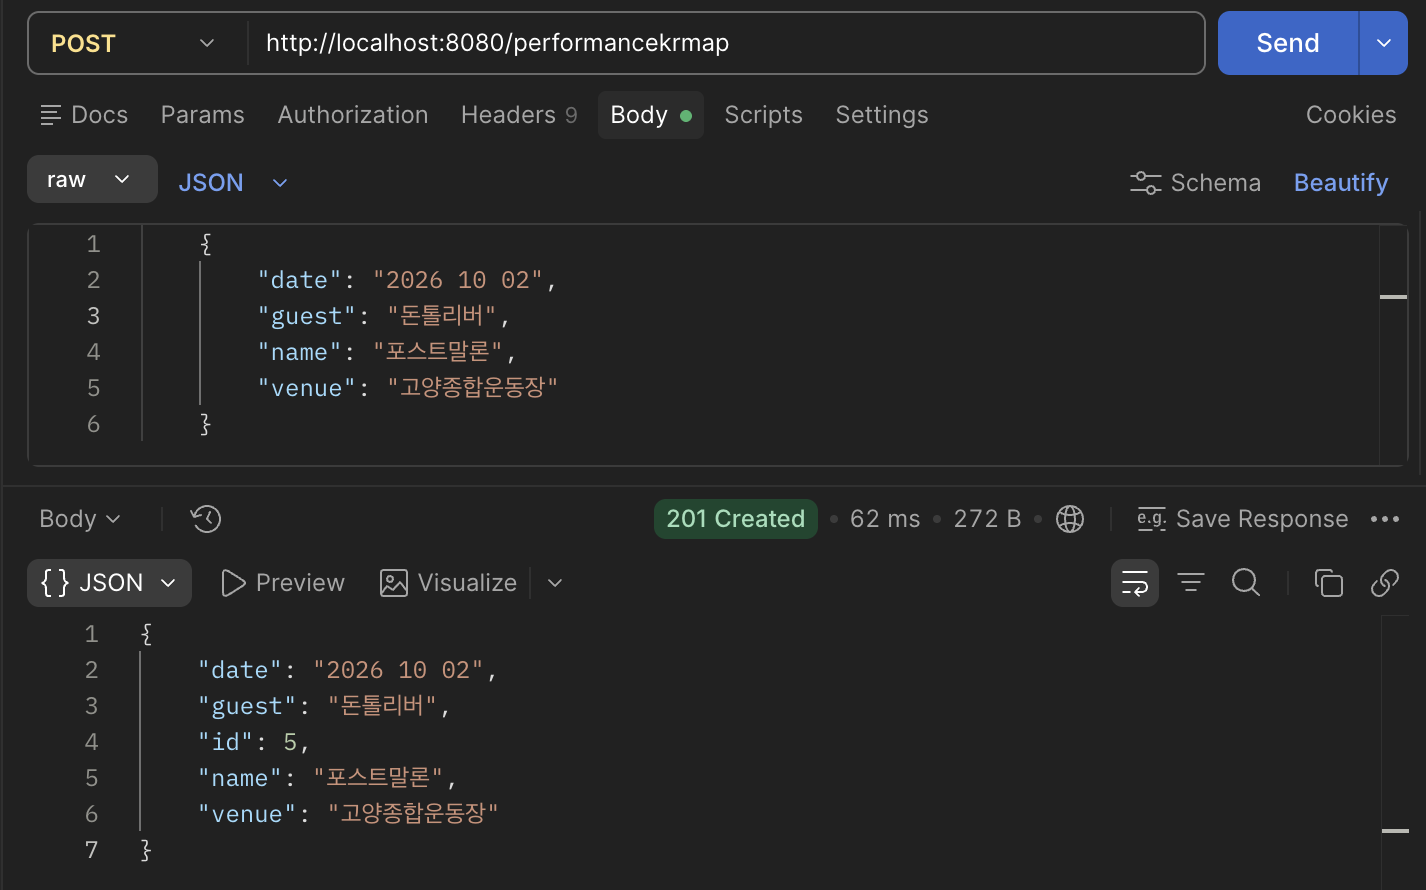
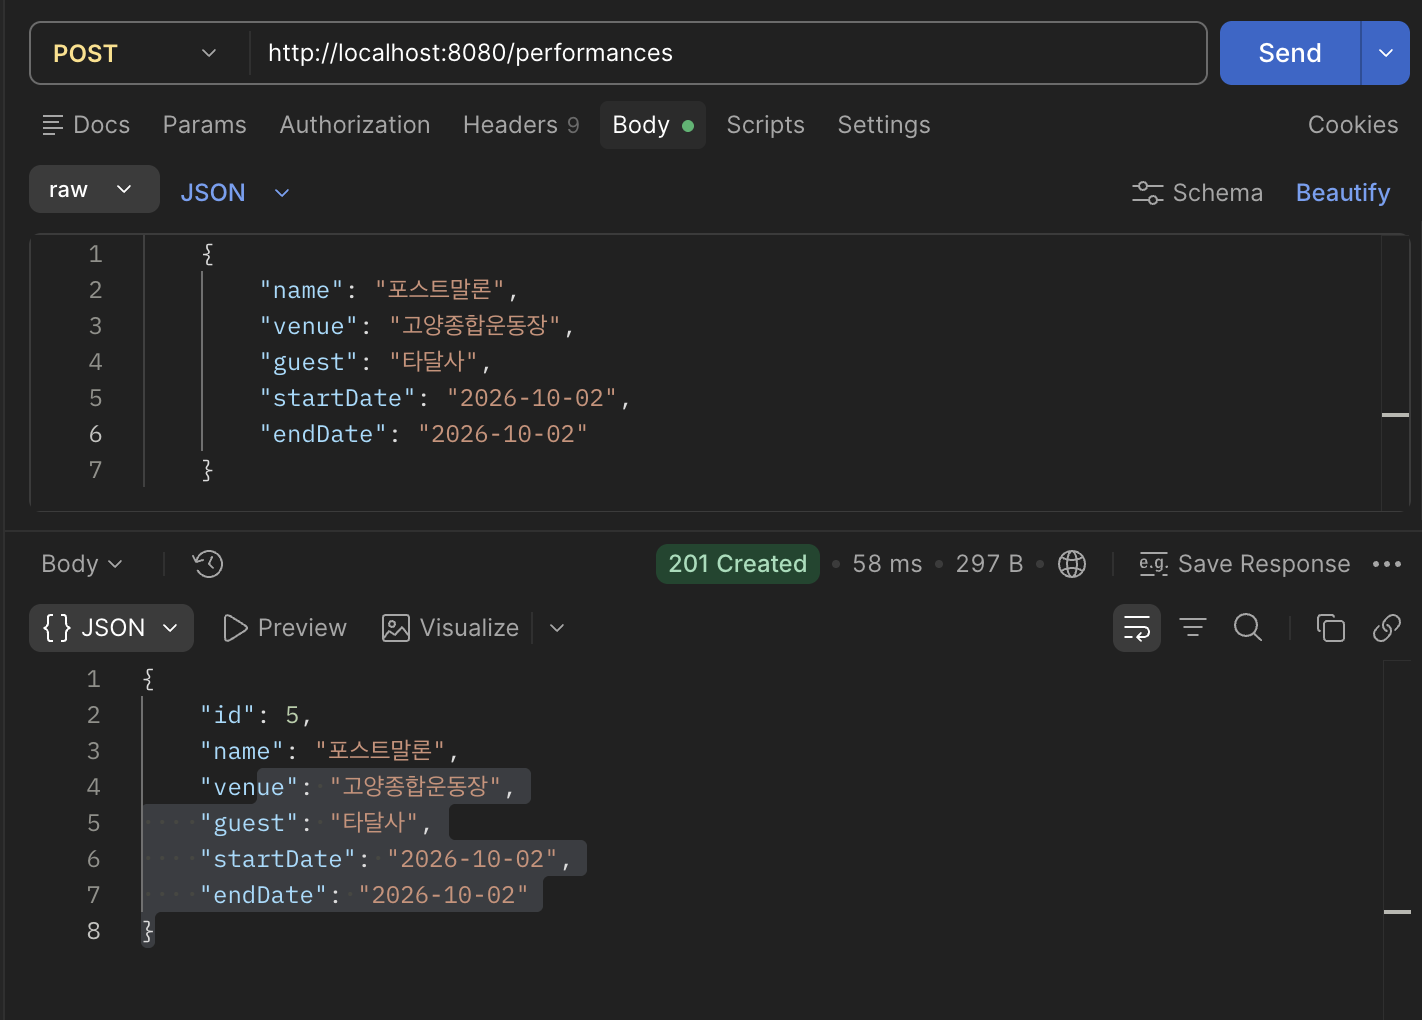
Refactor: 피드백 반영

diff --git a/rohgangmin/RestApi /src/main/java/com/gdg/restapi/repository/PerformancekrRepository.java b/rohgangmin/RestApi /src/main/java/com/gdg/restapi/repository/PerformancekrRepository.java
@@ -2,7 +2,7 @@ package com.gdg.restapi.repository;
 
 import com.gdg.restapi.domain.Performancekr;
 import org.springframework.stereotype.Repository;
-
+import java.time.LocalDate;
 import java.util.*;
 
 @Repository
@@ -11,16 +11,16 @@ public class PerformancekrRepository {
     private long sequence = 0L;
 
     public PerformancekrRepository() {
-        save(new Performancekr(null, "칸예웨스트", "고양종합운동장", "타달사", "2024 08 23"));
-        save(new Performancekr(null, "칸예웨스트", "인천문학경기장", null, "2025 07 26"));
-        save(new Performancekr(null, "타일러더크레이터", "고양킨텍스", "파리텍사스", "2025 09 13~2025 09 14"));
-        save(new Performancekr(null, "트래비스스캇", "고양종합운동장", null, "2025 10 25"));
+        save(new Performancekr(null, "칸예웨스트", "고양종합운동장", "타달사",LocalDate.of(2024, 8, 23), LocalDate.of(2024, 8, 23)));
+        save(new Performancekr(null, "칸예웨스트", "인천문학경기장", null,LocalDate.of(2025, 7, 26), LocalDate.of(2025, 7, 26)));
+        save(new Performancekr(null, "타일러더크레이터", "고양킨텍스", "파리텍사스", LocalDate.of(2025, 9, 13), LocalDate.of(2025, 9, 14)));
+        save(new Performancekr(null, "트래비스스캇", "고양종합운동장", null, LocalDate.of(2025, 10, 25), LocalDate.of(2025, 10, 25)));
 
     }
 
     public Performancekr save(Performancekr newPerformancekr) {
         Performancekr performancekr = new Performancekr(++sequence, newPerformancekr.getName(),
-                newPerformancekr.getVenue(), newPerformancekr.getGuest(), newPerformancekr.getDate());
+                newPerformancekr.getVenue(), newPerformancekr.getGuest(), newPerformancekr.getStartDate(), newPerformancekr.getEndDate());
         performancekrMap.put(performancekr.getId(), performancekr);
         return performancekr;
     }

diff --git a/rohgangmin/RestApi /src/main/java/com/gdg/restapi/service/PerformancekrService.java b/rohgangmin/RestApi /src/main/java/com/gdg/restapi/service/PerformancekrService.java
@@ -6,7 +6,6 @@ import com.gdg.restapi.dto.PerformancekrResponse;
 import com.gdg.restapi.repository.PerformancekrRepository;
 import lombok.RequiredArgsConstructor;
 import org.springframework.stereotype.Service;
-
 import java.util.List;
 
 @Service
@@ -16,8 +15,8 @@ public class PerformancekrService {
     private final PerformancekrRepository performancekrRepository;
 
     public PerformancekrResponse create(PerformancekrRequest request) {
-        Performancekr performancekr = new Performancekr(null, request.getName(),
-                request.getVenue(), request.getGuest(), request.getDate());
+        Performancekr performancekr = new Performancekr(null, request .name(),
+                request.venue(), request.guest(), request.startDate(),request.endDate());
         return new PerformancekrResponse(performancekrRepository.save(performancekr));
     }
 
@@ -35,8 +34,7 @@ public class PerformancekrService {
     public PerformancekrResponse update(Long id, PerformancekrRequest request) {
         Performancekr performancekr = performancekrRepository.findById(id)
                 .orElseThrow(() -> new IllegalArgumentException("존재하지 않는 아티스트입니다."));
-
-        performancekr.update(request.getName(), request.getVenue(), request.getGuest(), request.getDate());
+        performancekr.update(request.name(), request.venue(), request.guest(), request.startDate(),request.endDate());
         return new PerformancekrResponse(performancekr);
     }
 

diff --git a/rohgangmin/RestApi /src/main/java/com/gdg/restapi/domain/Performancekr.java b/rohgangmin/RestApi /src/main/java/com/gdg/restapi/domain/Performancekr.java
@@ -1,21 +1,20 @@
 package com.gdg.restapi.domain;
 
-
 import lombok.AllArgsConstructor;
 import lombok.Getter;
-
+import java.time.LocalDate;
+//내한 공연 온 아티스트 모음
 @Getter
 @AllArgsConstructor
-//내한 공연 온 아티스트 모음
-
 public class Performancekr {
-    private Long id;
-    private String name;//아티스트
-    private String venue;//공연장
-    private String guest;//게스트
-    private String date;//날짜
+    private Long id;// 고유번호
+    private String name;// 아티스트
+    private String venue;// 공연장
+    private String guest;// 게스트
+    private LocalDate startDate;// 시작한날짜
+    private LocalDate endDate;// 끝난 날짜
 
-    public void update(String name, String venue, String guest, String date) {
+    public void update(String name, String venue, String guest, LocalDate startDate, LocalDate endDate) {
         if (name != null) {
             this.name = name;
         }
@@ -25,10 +24,11 @@ public class Performancekr {
         if (guest != null) {
             this.guest = guest;
         }
-        if (date != null) {
-            this.date = date;
+        if (startDate != null) {
+            this.startDate = startDate;
+        }
+        if (endDate != null) {
+            this.endDate = endDate;
         }
     }
-
-
 }

diff --git a/rohgangmin/RestApi /src/main/java/com/gdg/restapi/dto/PerformancekrResponse.java b/rohgangmin/RestApi /src/main/java/com/gdg/restapi/dto/PerformancekrResponse.java
@@ -1,23 +1,20 @@
 package com.gdg.restapi.dto;
 
+import com.fasterxml.jackson.annotation.JsonPropertyOrder;
 import com.gdg.restapi.domain.Performancekr;
-import lombok.Getter;
+import java.time.LocalDate;
 
-@Getter
-
-public class PerformancekrResponse {
-    private final Long id;
-    private final String name;
-    private final String venue;
-    private final String guest;
-    private final String date;
-
+@JsonPropertyOrder({ "id", "name", "venue","guest","date" })
+public record PerformancekrResponse (
+        Long id,// 고유번호
+        String name,// 아티스트
+        String venue,// 공연장
+        String guest,// 게스트
+        LocalDate startDate,// 시작일
+        LocalDate endDate// 종료일
+) {
     public PerformancekrResponse(Performancekr performancekr) {
-        this.id = performancekr.getId();
-        this.name = performancekr.getName();
-        this.venue = performancekr.getVenue();
-        this.guest = performancekr.getGuest();
-        this.date = performancekr.getDate();
+        this(performancekr.getId(), performancekr.getName(), performancekr.getVenue(), performancekr.getGuest(), performancekr.getStartDate(), performancekr.getEndDate());
 
     }
 }

diff --git a/rohgangmin/RestApi /src/main/java/com/gdg/restapi/dto/PerformancekrRequest.java b/rohgangmin/RestApi /src/main/java/com/gdg/restapi/dto/PerformancekrRequest.java
@@ -1,12 +1,18 @@
 package com.gdg.restapi.dto;
 
-import lombok.Getter;
+import com.fasterxml.jackson.annotation.JsonPropertyOrder;
+import com.gdg.restapi.domain.Performancekr;
+import java.time.LocalDate;
 
-@Getter
-public class PerformancekrRequest {
-    private Long id;
-    private String name;//아티스트
-    private String venue;//공연장
-    private String guest;//게스트
-    private String date;//날짜
+@JsonPropertyOrder({"name", "venue","guest","startDate","endDate" })
+public record PerformancekrRequest (
+        String name,// 아티스트
+        String venue,// 공연장
+        String guest,// 게스트
+        LocalDate startDate, // 시작일
+        LocalDate endDate // 종료일
+) {
+    public PerformancekrRequest(Performancekr performancekr) {
+        this(performancekr.getName(), performancekr.getVenue(), performancekr.getGuest(), performancekr.getStartDate(),performancekr.getEndDate());
+    }
 }

diff --git a/rohgangmin/RestApi /src/main/java/com/gdg/restapi/controller/PerformancekrController.java b/rohgangmin/RestApi /src/main/java/com/gdg/restapi/controller/PerformancekrController.java
@@ -7,12 +7,11 @@ import lombok.RequiredArgsConstructor;
 import org.springframework.http.HttpStatus;
 import org.springframework.http.ResponseEntity;
 import org.springframework.web.bind.annotation.*;
-
 import java.util.List;
 
 @RestController
 @RequiredArgsConstructor
-@RequestMapping("/performancekrmap")
+@RequestMapping("/performances")
 public class PerformancekrController {
     private final PerformancekrService performancekrService;
 
@@ -41,6 +40,4 @@ public class PerformancekrController {
         performancekrService.delete(id);
         return ResponseEntity.status(HttpStatus.NO_CONTENT).build();
     }
-
-
 }
